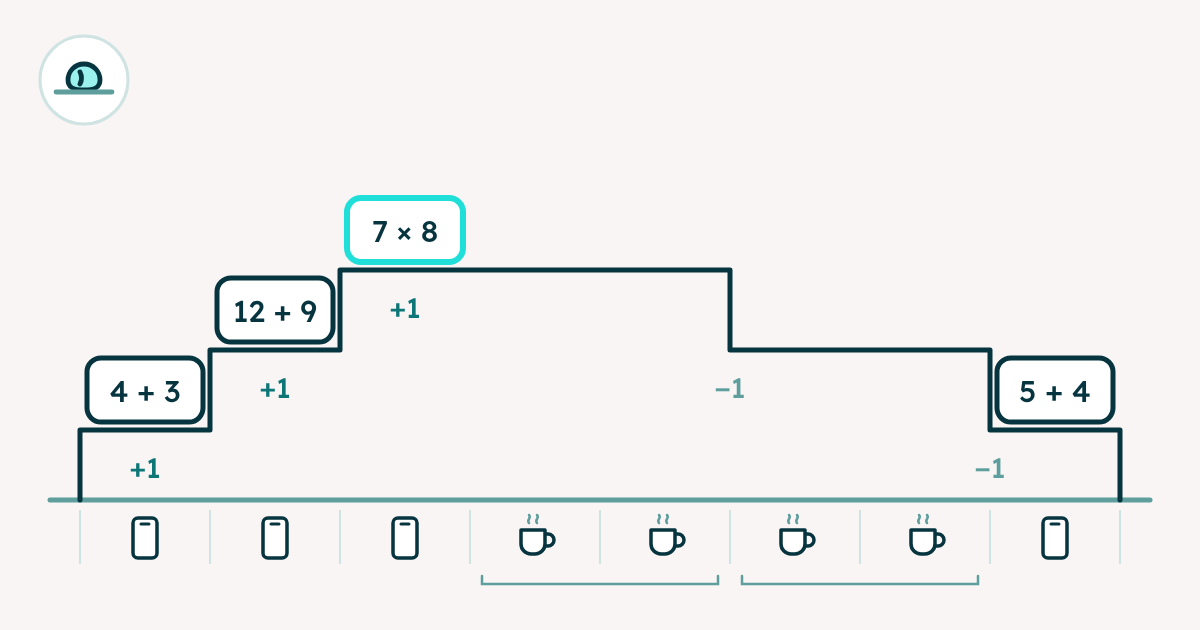
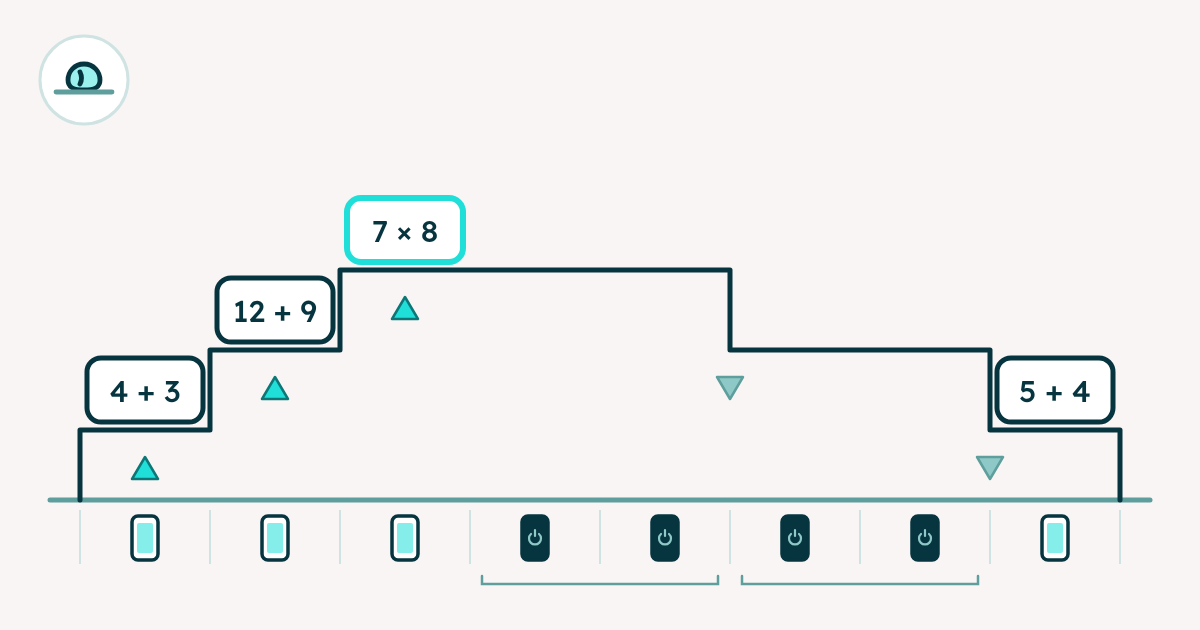
Garden: difficulty image uses arrows and phones on/off
Claude-Session: https://claude.ai/code/session_01JyMh7zskpRqVrSxN7TcDeR

diff --git a/src/content/garden/en/progressive-difficulty.md b/src/content/garden/en/progressive-difficulty.md
@@ -2,7 +2,7 @@
 title: How progressive difficulty works
 description: Every challenge you solve makes the next one a little harder. Stay away and it eases off, but never below the level you chose.
 date: 2026-11-23
-imageAlt: "Stairs over a row of time intervals: each interval on the phone adds a step up, from 4 + 3 to 7 × 8; every two intervals with a coffee break take a step down, back to 5 + 4."
+imageAlt: "Stairs over a row of time intervals: each interval with the phone on goes a step up, from 4 + 3 to 7 × 8; every two intervals with the phone off go a step down, back to 5 + 4."
 stage: seed
 ---
 
